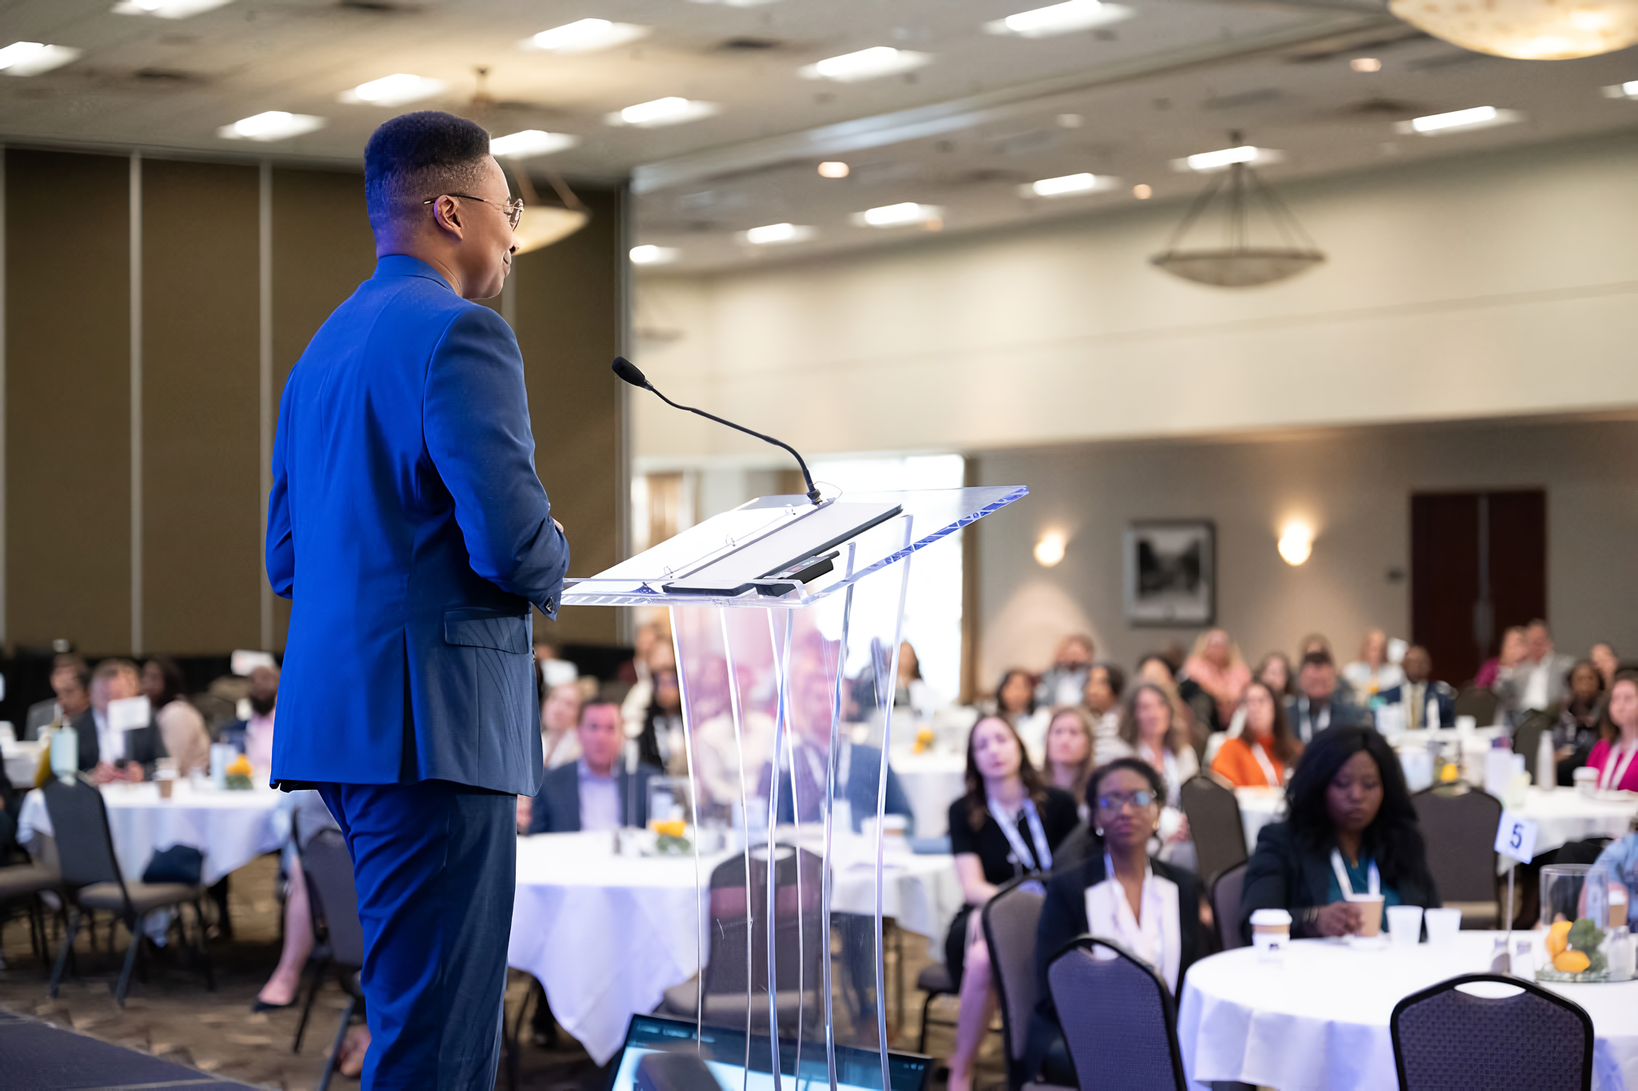
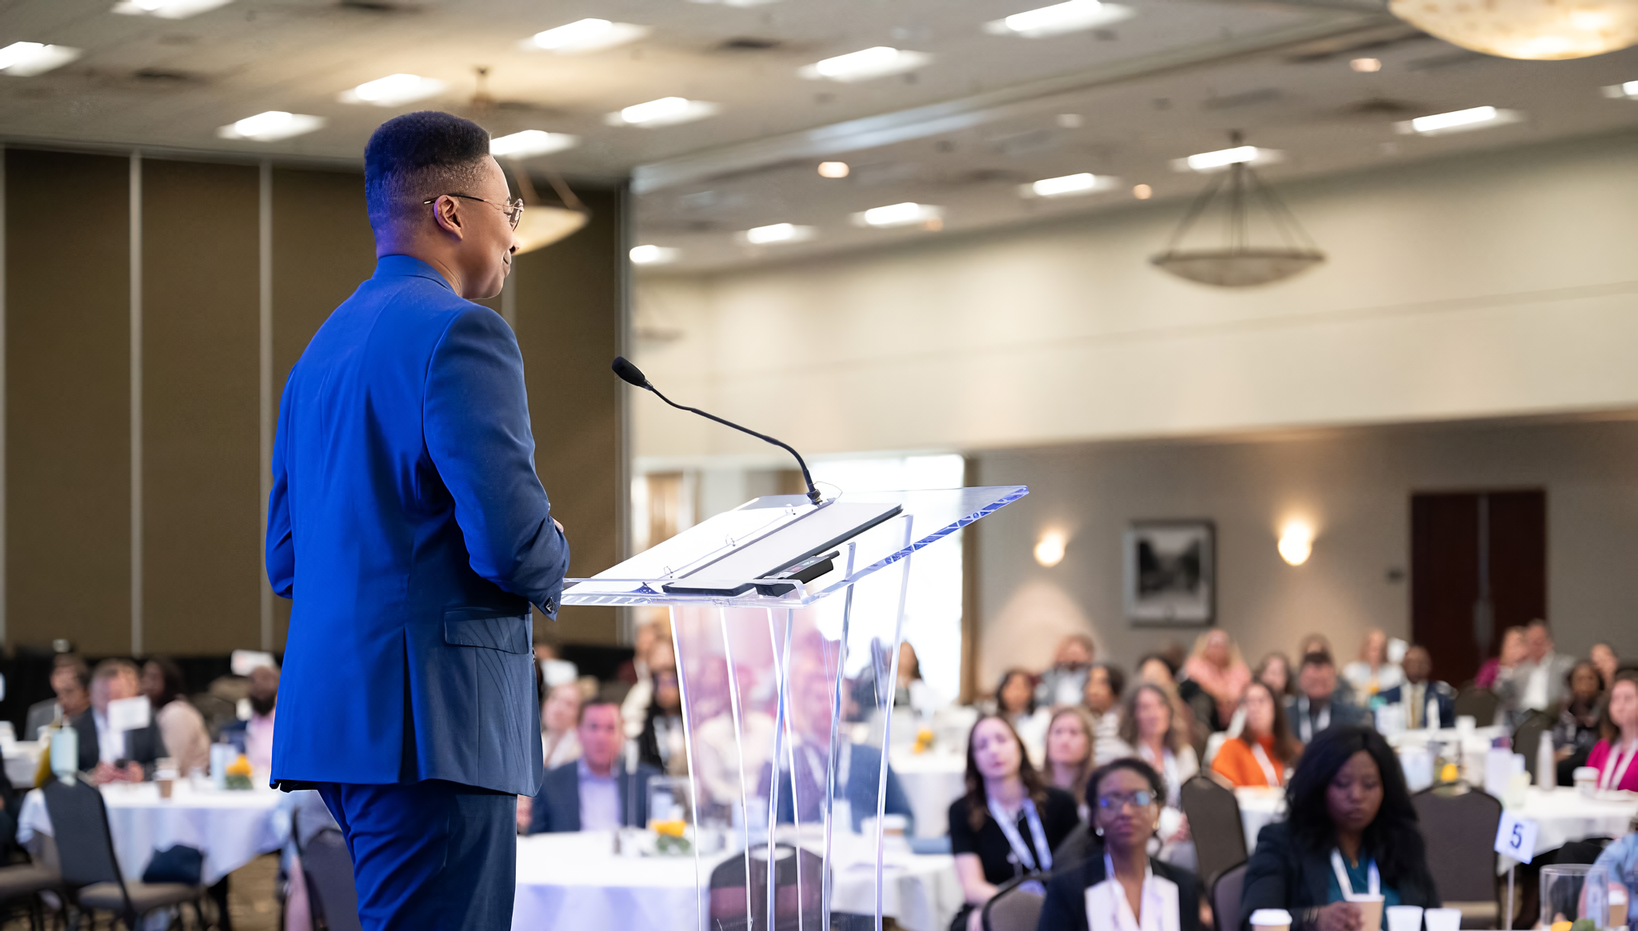
Home page content

diff --git a/_sass/override.scss b/_sass/override.scss
@@ -136,3 +136,60 @@
   font-weight: 700;
   color: #5e4cff; /* cosmic purple */
 }
+
+.timeline {
+  position: relative;
+  margin: 2rem 0;
+  padding-left: 2rem;
+  border-left: 2px solid #e0e0e0;
+}
+
+.timeline-section {
+  margin: 2rem 0 1rem;
+  font-size: 1.4rem;
+  font-weight: 600;
+}
+
+.entry {
+  position: relative;
+  margin-bottom: 2rem;
+}
+
+.dot {
+  position: absolute;
+  left: -11px;
+  top: 6px;
+  height: 14px;
+  width: 14px;
+  background: #4a4a4a;
+  border-radius: 50%;
+}
+
+.content h3 {
+  margin: 0;
+  font-size: 1.2rem;
+  font-weight: 600;
+}
+
+.meta {
+  margin: 0.2rem 0;
+  font-size: 0.95rem;
+  color: #666;
+}
+
+.desc {
+  margin: 0.3rem 0 0;
+  font-size: 0.95rem;
+  color: #444;
+}
+
+.desc a {
+  color: #0066cc;
+  text-decoration: none;
+  border-bottom: 1px solid transparent;
+  transition: 0.2s ease;
+}
+
+.desc a:hover {
+  border-bottom: 1px solid #0066cc;
+}

diff --git a/index.md b/index.md
@@ -16,3 +16,64 @@ carousels:
       - image: /assets/images/IG3.jpg
       - image: /assets/images/IG4.jpeg
 ---
+
+<div class="timeline">
+
+  <!-- Education -->
+  <h2 class="timeline-section">Education</h2>
+
+  <div class="entry">
+    <div class="dot"></div>
+    <div class="content">
+      <h3>🎓 Master of Statistics</h3>
+      <p class="meta">North Carolina State University • Conferred May 2023</p>
+    </div>
+  </div>
+
+  <div class="entry">
+    <div class="dot"></div>
+    <div class="content">
+      <h3>🎓 Bachelor of Science in Mathematics</h3>
+      <p class="meta">
+        North Carolina Central University • CEMA Concentration, Data Science Track • Conferred Dec 2018
+      </p>
+    </div>
+  </div>
+
+  <!-- Activities & Publications -->
+  <h2 class="timeline-section">Activities & Publications</h2>
+
+  <div class="entry">
+    <div class="dot"></div>
+    <div class="content">
+      <h3>🎤 Motivational Moment Speaker</h3>
+      <p class="meta">NC TECH Association Diversity & Inclusion Summit • Mar 2024</p>
+      <p class="desc">
+        <a href="YOUR_LINK_HERE" target="_blank">Belonging — What Does That Mean?</a>
+      </p>
+    </div>
+  </div>
+
+  <div class="entry">
+    <div class="dot"></div>
+    <div class="content">
+      <h3>📝 Published Author</h3>
+      <p class="meta">SAS Curiosity (Opinions Series) • June 2022</p>
+      <p class="desc">
+        <a href="YOUR_LINK_HERE" target="_blank">The Uncounted Community: Missing LGBTQ+ Data</a>
+      </p>
+    </div>
+  </div>
+
+  <div class="entry">
+    <div class="dot"></div>
+    <div class="content">
+      <h3>📘 Contributing Author</h3>
+      <p class="meta">Intelligence at the Edge: Using SAS with the Internet of Things • Feb 2020</p>
+      <p class="desc">
+        <a href="YOUR_LINK_HERE" target="_blank">Chapter 3 Preview</a>
+      </p>
+    </div>
+  </div>
+
+</div>
